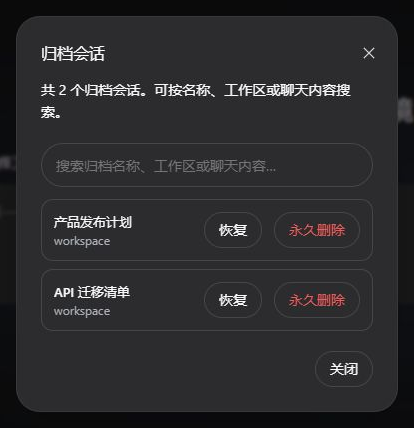
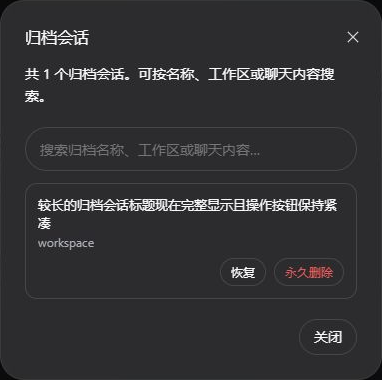
fix: preserve archived session titles

diff --git a/lib/client.js b/lib/client.js
@@ -2311,11 +2311,11 @@ window.__ModuleLoader__.load({
 								className: WorkspaceBrowser_module_css_default.deleteStatus,
 								children: normalizedArchiveQuery === "" ? t("archive.manager.empty") : t("archive.manager.noMatches")
 							}) : archiveRows.map((row) => (0, react_jsx_runtime.jsxs)("div", {
-								style: { border: "1px solid var(--dsw-alias-border-l2)", borderRadius: 12, padding: 12, display: "flex", alignItems: "center", gap: 12 },
+								style: { border: "1px solid var(--dsw-alias-border-l2)", borderRadius: 12, padding: 12, display: "flex", flexDirection: "column", alignItems: "stretch", gap: 8 },
 								children: [(0, react_jsx_runtime.jsxs)("div", {
-									style: { minWidth: 0, flex: 1 },
+									style: { minWidth: 0 },
 									children: [(0, react_jsx_runtime.jsx)("div", {
-										style: { color: "var(--dsw-alias-label-primary)", fontSize: 13, fontWeight: 500, overflow: "hidden", textOverflow: "ellipsis", whiteSpace: "nowrap" },
+										style: { color: "var(--dsw-alias-label-primary)", fontSize: 13, fontWeight: 500, whiteSpace: "normal", overflowWrap: "anywhere", lineHeight: "18px" },
 										children: row.title
 									}), (0, react_jsx_runtime.jsx)("div", {
 										style: { color: "var(--dsw-alias-label-tertiary)", fontSize: 12, marginTop: 2 },
@@ -2324,17 +2324,22 @@ window.__ModuleLoader__.load({
 										style: { color: "var(--dsw-alias-label-secondary)", fontSize: 12, lineHeight: "18px", marginTop: 6 },
 										children: archiveSnippets.get(row.id)
 									})]
-								}), (0, react_jsx_runtime.jsx)(_deepseek_ai_dsh_client_ui_primitives.Button, {
+								}), (0, react_jsx_runtime.jsxs)("div", {
+									style: { display: "flex", justifyContent: "flex-end", gap: 8 },
+									children: [(0, react_jsx_runtime.jsx)(_deepseek_ai_dsh_client_ui_primitives.Button, {
 									variant: "outline",
+									style: { minHeight: 28, height: 28, paddingInline: 10, fontSize: 12 },
 									disabled: archiveBusyId !== null,
 									onClick: () => onArchiveRestore(row.id),
 									children: archiveBusyId === row.id ? t("archive.manager.restoring") : t("archive.manager.restore")
 								}), (0, react_jsx_runtime.jsx)(_deepseek_ai_dsh_client_ui_primitives.Button, {
 									variant: "outline",
 									className: WorkspaceBrowser_module_css_default.deleteAction,
+									style: { minHeight: 28, height: 28, paddingInline: 10, fontSize: 12 },
 									disabled: archiveBusyId !== null,
 									onClick: () => onSessionDelete(row.id, row.title),
 									children: t("archive.manager.delete")
+								})]
 								})]
 							}, row.id))
 						}), archiveSearch.hasMore && (0, react_jsx_runtime.jsx)("div", {

diff --git a/AGENTS.md b/AGENTS.md
@@ -6,7 +6,7 @@ or remove `dsh-native-session-delete` in a selected DeepSeek Harness profile.
 ## Safety and responsibility boundary
 
 - Confirm the target DSH installation and profile. Use `web` only when it is the user's target.
-- Use the fixed v1.1.0 package below; never substitute a moving branch or an unreviewed source.
+- Use the fixed v1.1.1 package below; never substitute a moving branch or an unreviewed source.
 - Do not print session contents, full profile files, transcript paths, credentials, or other private data.
 - Do not start, stop, or restart DSH without explicit permission.
 - Preserve all sessions, unrelated plugins, and user-owned profile changes.
@@ -22,16 +22,16 @@ requirements. A cancelled confirmation is the safe default and must not send a d
 
 ## Fixed package and standard bundle
 
-The v1.1.0 package is a standard DSH bundle with a `dsh.bundle` profile patch. Its exact package spec is:
+The v1.1.1 package is a standard DSH bundle with a `dsh.bundle` profile patch. Its exact package spec is:
 
 ```text
-dsh-native-session-delete@1.1.0
+dsh-native-session-delete@1.1.1
 ```
 
 The bundle disables the official workspace row while installed and inserts a uniquely identified native
 workspace row. Removing `dsh-native-session-delete` removes that layer, allowing DSH to restore the official
 workspace row. Do not install the tarball under `@deepseek-ai/dsh-client-ui-workspace`; that old aliasing
-approach is not the v1.1.0 contract. The product is shown to users as **DSH Native Session Manager** while
+approach is not the v1.1.1 contract. The product is shown to users as **DSH Native Session Manager** while
 retaining the existing npm package identity for safe upgrades.
 
 ## Detect the target DSH
@@ -57,13 +57,13 @@ record the selected profile's relevant metadata before invoking it, without prin
 With an existing `dsh` command, run exactly:
 
 ```sh
-dsh plugin --profile web add dsh-native-session-delete@1.1.0
+dsh plugin --profile web add dsh-native-session-delete@1.1.1
 ```
 
 With DSH-Portable, run from its root:
 
 ```powershell
-.\dsh.exe plugin --profile web add dsh-native-session-delete@1.1.0
+.\dsh.exe plugin --profile web add dsh-native-session-delete@1.1.1
 ```
 
 Use the same `add` command to update or repair. On Windows, `install.ps1` from the same fixed Release may
@@ -87,7 +87,7 @@ dsh plugin --profile web list dsh-native-session-delete --depth 0
 Use `.\dsh.exe` in place of `dsh` for DSH-Portable. Static acceptance requires:
 
 1. The `dsh-native-session-delete` bundle appears exactly once in the requested profile.
-2. Its direct package spec is the fixed `dsh-native-session-delete@1.1.0` npm version above.
+2. Its direct package spec is the fixed `dsh-native-session-delete@1.1.1` npm version above.
 3. The profile contains the bundle patch and no duplicate official workspace row from this plugin.
 4. No unrelated dependency, profile patch, or session data was changed by the operation.
 

diff --git a/README.md b/README.md
@@ -39,7 +39,7 @@ Archive manager · Conversation search · One-click restore · Safe permanent de
 Open PowerShell and paste one line:
 
 ```powershell
-irm 'https://github.com/WSL043/dsh-native-session-manager/releases/download/v1.1.0/install.ps1' | iex
+irm 'https://github.com/WSL043/dsh-native-session-manager/releases/download/v1.1.1/install.ps1' | iex
 ```
 
 The helper checks the current directory, PATH, `DSH_PORTABLE_ROOT`, Downloads/Desktop/Documents, and up to
@@ -54,7 +54,7 @@ If it still finds nothing, enter the actual DSH-Portable folder and rerun the sa
 ### Official CLI (macOS, Linux, or direct review)
 
 ```sh
-dsh plugin --profile web add dsh-native-session-delete@1.1.0
+dsh plugin --profile web add dsh-native-session-delete@1.1.1
 ```
 
 The helper and direct command use the same standard bundle mechanism. The helper is only a Windows entry
@@ -65,7 +65,7 @@ bundle configuration becomes active.
 
 ### Agent installation
 
-Use the fixed-version [AGENTS.md](https://raw.githubusercontent.com/WSL043/dsh-native-session-manager/v1.1.0/AGENTS.md).
+Use the fixed-version [AGENTS.md](https://raw.githubusercontent.com/WSL043/dsh-native-session-manager/v1.1.1/AGENTS.md).
 It defines installation, update, acceptance, uninstall, and safety boundaries. Do not use the `main`
 branch document as an installation contract.
 
@@ -121,7 +121,7 @@ without warranty.
 ## Compatibility
 
 <!-- dsh-compatibility -->
-Supports DeepSeek Harness: `0.1.0-rc.6`, `0.1.0-rc.7`, `0.1.0-rc.8`, `0.1.1-rc.1`, `0.1.1-rc.2`.
+Supports the latest DeepSeek Harness release (`0.1.1-rc.2`).
 <!-- /dsh-compatibility -->
 
 Archive browsing, restore, and content search use DSH's workspace registry and session-query capabilities.
@@ -130,10 +130,10 @@ list with the session-management version; uninstalling restores DSH's original l
 
 ## Update and uninstall
 
-Update by rerunning the quick installer or installing the new npm version. For v1.1.0:
+Update by rerunning the quick installer or installing the new npm version. For v1.1.1:
 
 ```sh
-dsh plugin --profile web add dsh-native-session-delete@1.1.0
+dsh plugin --profile web add dsh-native-session-delete@1.1.1
 ```
 
 Uninstall removes only this plugin's bundle layer and never deletes sessions:
